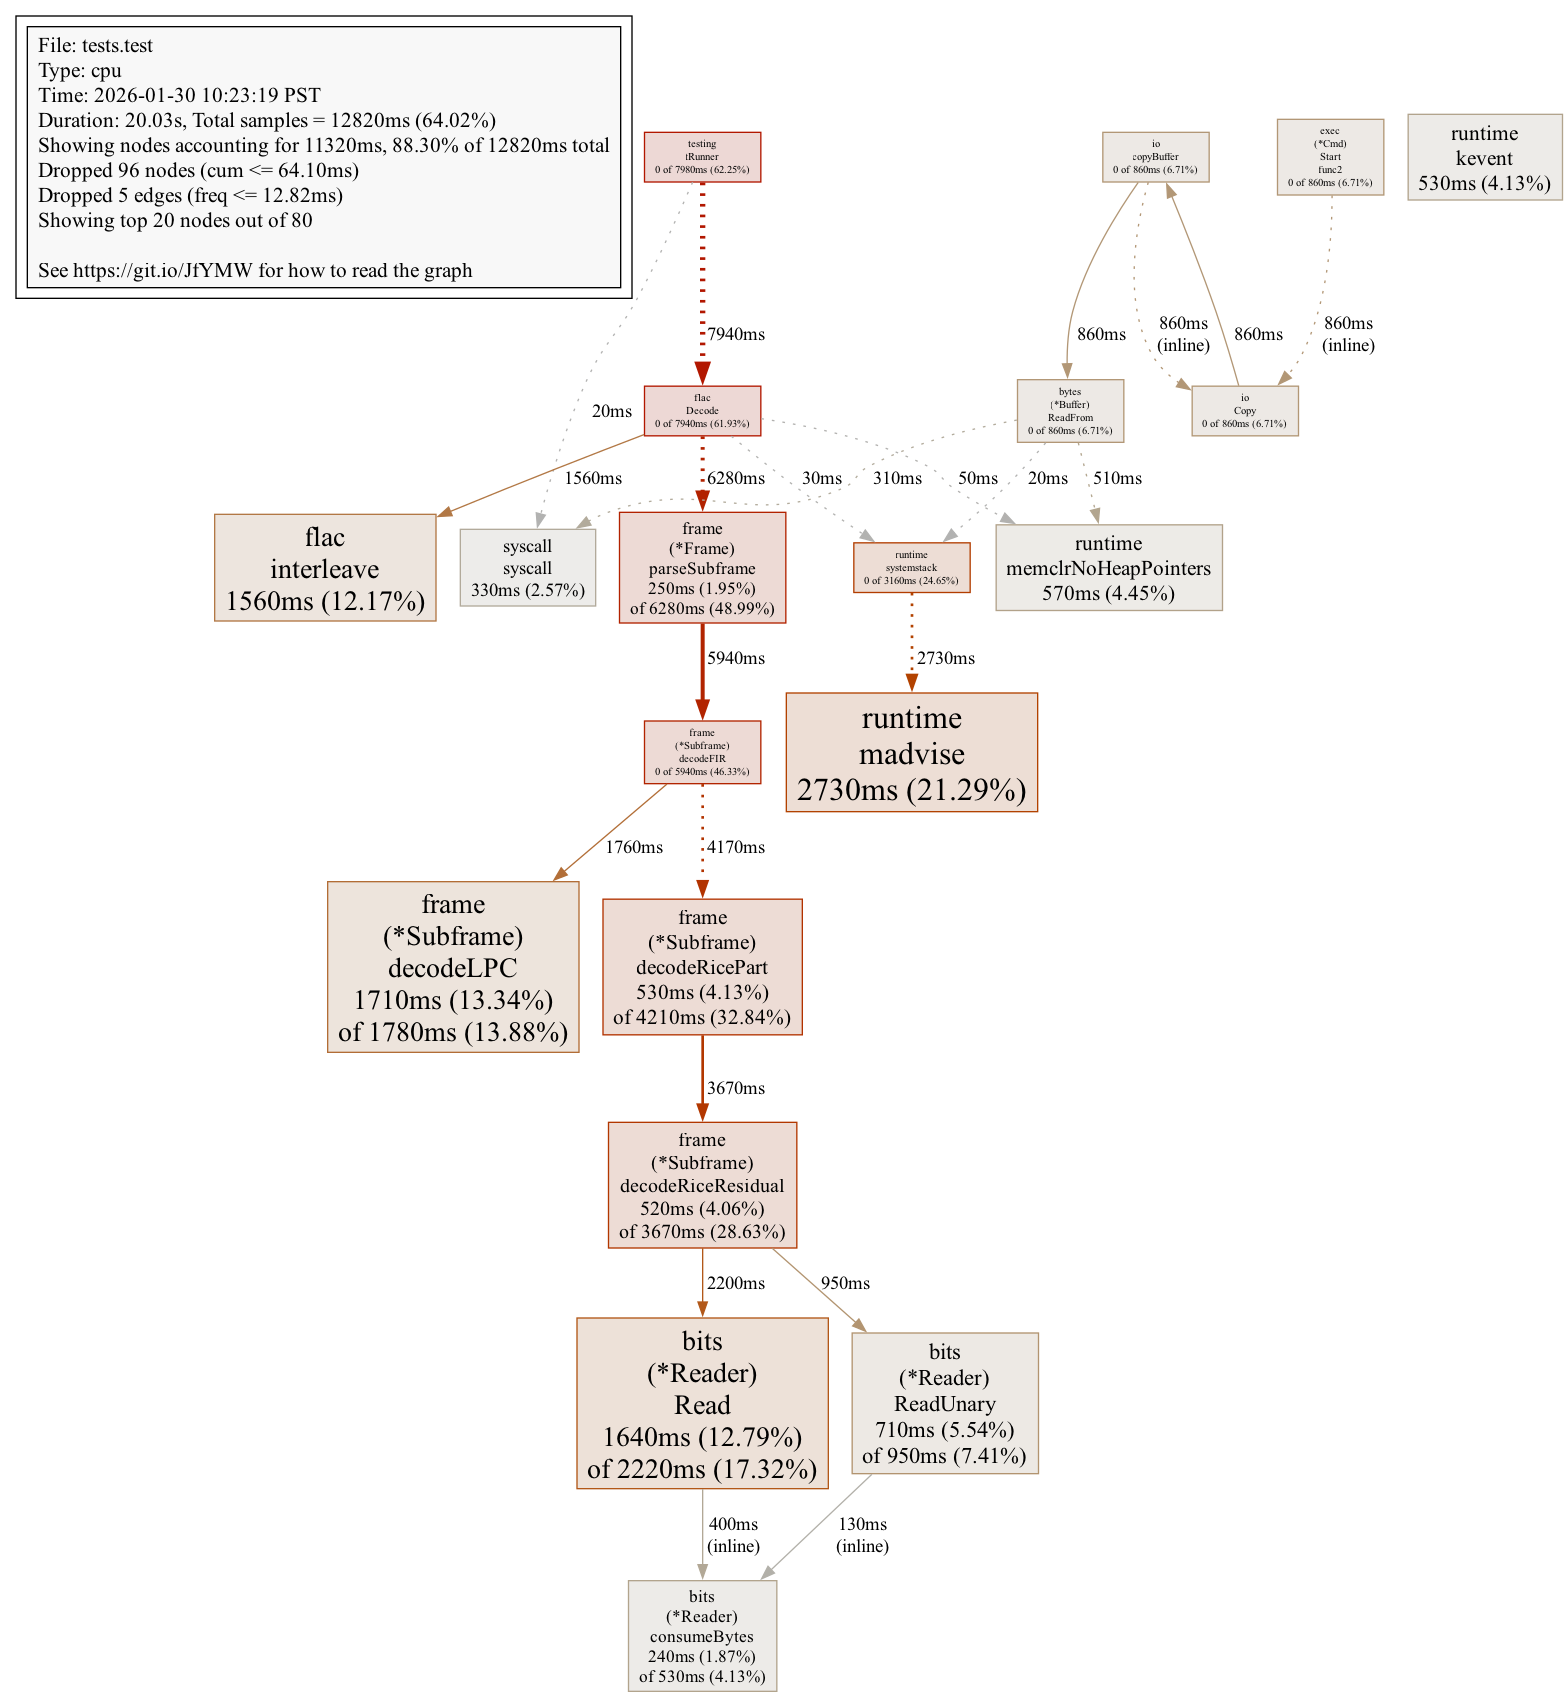
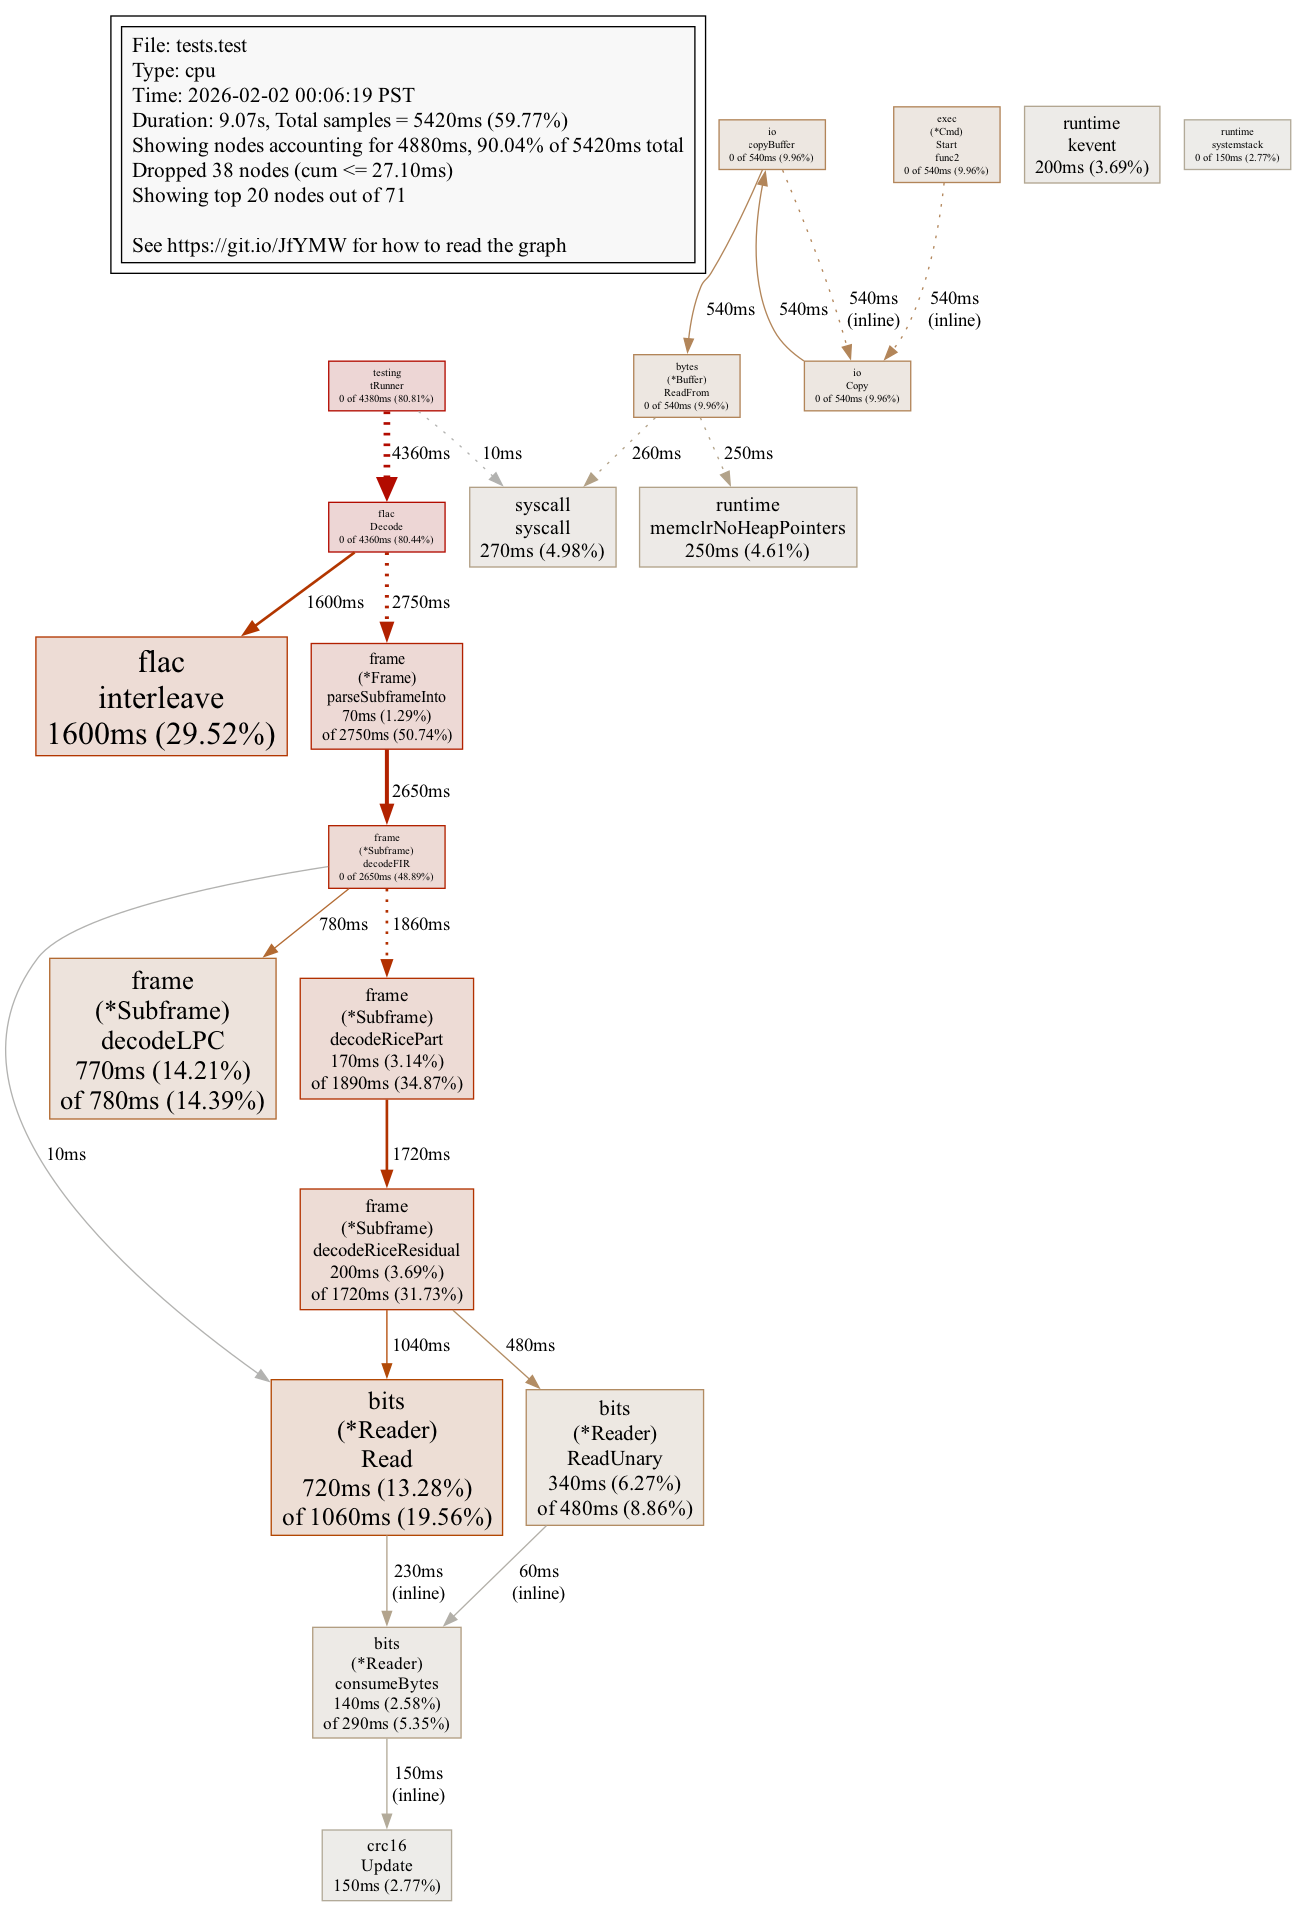
Tooling bump

diff --git a/docs/QA.md b/docs/QA.md
@@ -1,63 +1,62 @@
-# QA
+# Testing
 
-## Methodology
+Codec-specific conformance tests and benchmarks have moved to their individual repositories:
 
-Uncompress with ffmpeg.
+- **ALAC:** [saprobe-alac/docs/QA.md](https://github.com/mycophonic/saprobe-alac/blob/main/docs/QA.md)
+- **DSD:** [saprobe-dsd/docs/QA.md](https://github.com/mycophonic/saprobe-dsd/blob/main/docs/QA.md)
+- **FLAC:** [saprobe-flac/docs/QA.md](https://github.com/mycophonic/saprobe-flac/blob/main/docs/QA.md)
+- **MP3:** [saprobe-mp3/docs/QA.md](https://github.com/mycophonic/saprobe-mp3/blob/main/docs/QA.md)
 
-Uncompress with saprobe.
+The tests below are cross-codec or format-level tests that remain in the main saprobe repo.
 
-Compare bit for bit match. Pass or fail.
+## Single file decode (`TestSingleDecode`)
 
-## Small run
-
-### FLAC
-
-```bash
-go test -v -timeout 24h ./tests/ -run TestMassDecode -only flac -audio-path  /Volumes/Anisotope/gill 1>./_/masstest-flac.log  2>&1
-```
-
-```
-    mass_decode_test.go:49: --- summary: 467 files ---
-    mass_decode_test.go:49:   by codec: flac=467
-    mass_decode_test.go:49:   by sample rate: 44100=467
-    mass_decode_test.go:49:   by channels: 2=467
-    mass_decode_test.go:49:   by bit depth: 16=467
-
-PASS
-ok      github.com/farcloser/saprobe/tests      707.436s
-```
-
-### ALAC/AAC
+Detailed comparison of a single file between saprobe and ffmpeg. Supports all codecs (ALAC, FLAC, MP3, OggVorbis, AAC).
 
 ```bash
-go test -v -timeout 24h ./tests/ -run TestMassDecode -only m4a -audio-path  /Volumes/Anisotope/gill 1>./_/masstest-mp4.log  2>&1
+go test ./tests/ -run TestSingleDecode -single-file /path/to/file.m4a -count=1 -v
 ```
 
+## Mass decode (`TestMassDecode`)
 
-```
-    mass_decode_test.go:51: --- summary: 7434 files ---
-    mass_decode_test.go:51:   by codec: aac=105, alac=7329
-    mass_decode_test.go:51:   by sample rate: 44100=7399, 48000=21, 96000=14
-    mass_decode_test.go:51:   by channels: 1=2, 2=7432
-    mass_decode_test.go:51:   by bit depth / bit rate: 16=7307, 24=22, N/A=105
+Comparative decoding across a large file collection. Walks a directory tree, decodes each file with both saprobe and ffmpeg, and compares output.
 
-FAIL
-FAIL    github.com/mycophonic/saprobe/tests     12764.331s
-FAIL
-```
+```bash
+# All codecs
+go test -v -timeout 24h ./tests/ -run TestMassDecode -audio-path /path/to/music
 
-1 AAC failure:
-
-```
-  - /Volumes/Anisotope/gill/old.lossless/Bailey, Derek & Ruins/1995-07-18 - Saisoro/[1995-07-18-CD-Tzadik-TZ 7205]/01-07 Yaginbo.m4a                                                                 
-  - Error: aac: CoreAudio error (OSStatus 1650549857) — FourCC bada ("bad audio data")                                                                                                               
-  - Root cause: Corrupt M4A container from 2005 with timescale not set. ffmpeg tolerates it, CoreAudio rejects it.
+# Single codec
+go test -v -timeout 24h ./tests/ -run TestMassDecode -only flac -audio-path /path/to/music
+go test -v -timeout 24h ./tests/ -run TestMassDecode -only m4a -audio-path /path/to/music
 ```
 
-## OggVorbis
+### Results (Anisotope collection)
 
-Success on... 14 files.
+**FLAC** (467 files, 44.1kHz/16bit stereo):
+```
+PASS — 467/467
+```
 
-Do you folks have ogg files?
+**ALAC/AAC** (7434 files):
+```
+by codec: aac=105, alac=7329
+by sample rate: 44100=7399, 48000=21, 96000=14
+by channels: 1=2, 2=7432
+by bit depth / bit rate: 16=7307, 24=22, N/A=105
 
-Please run: `go test -v -timeout 24h ./tests/ -run TestMassDecode -only m4a -audio-path MEDIA_DIRECTORY`.
+1 AAC failure: corrupt M4A container (Tzadik TZ 7205, timescale not set).
+ffmpeg tolerates it, CoreAudio rejects it.
+```
+
+**OggVorbis** (14 files):
+```
+PASS — 14/14
+```
+
+## WAV round-trip (`TestWAVRoundTrip`)
+
+Validates WAV encoding by round-tripping through ffmpeg: generate PCM, wav.Encode, ffmpeg decode, compare against original PCM. Tests simple WAVEFORMAT (mono/stereo 16-bit) and WAVEFORMATEXTENSIBLE (multichannel, 24/32-bit) headers.
+
+```bash
+go test ./tests/ -run TestWAVRoundTrip -count=1 -v
+```

diff --git a/README.md b/README.md
@@ -6,18 +6,21 @@
 
 ## Purpose
 
-Saprobe provides a highly optimized, pure golang library and cli that supports decoding FLAC, ALAC, DSD, MP3, WAV, and OggVorbis.
+Saprobe provides an optimized, pure golang library and cli that supports decoding FLAC, ALAC, DSD, MP3, WAV, and OggVorbis.
+
+Individual decoders live in their own repository (eg: saprobe-CODEC).
 
 New implementations:
 - ALAC is a from scratch port of the Apple library to Go (with some help from github.com/abema/go-mp4
 for container parsing)
 - MP3 (originally inspired by github.com/hajimehoshi/go-mp3 (Apache))
-- DSD/DFF/DSF
+- DSD/DFF/DSF, experimental, from scratch
 
 Provided by third-party libraries:
 - FLAC (github.com/mewkiz/flac (Unlicense)), with additional optimizations (2x faster) and a couple of additional patches on our fork
 - OggVorbis: github.com/jfreymuth/oggvorbis (MIT)
-- AAC is optionally supported on macOS, but requires CGO if enabled, and just wraps macOS CoreAudio
+
+AAC is optionally supported on macOS through CoreAudio, but requires CGO if enabled, and just wraps macOS CoreAudio
 
 Future roadmap includes Opus.
 
@@ -75,7 +78,7 @@ Our fork additionally provides:
 - 32 bits support
 - optimizations for the decoder (about 2x faster than upstream)
 
-For performance measurements, detailed format support and comparison with other tools, see [FLAC](docs/FLAC.md).
+For performance measurements, detailed format support and comparison with other tools, see [FLAC](../saprobe-flac/docs/FLAC.md).
 
 ### P0: ALAC
 
